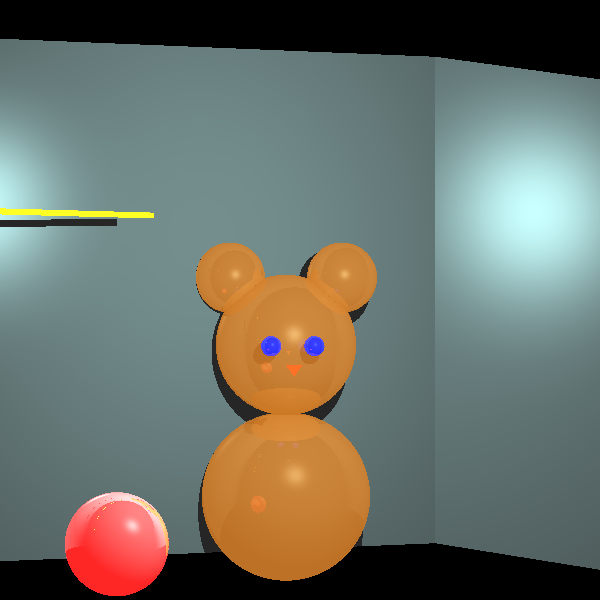
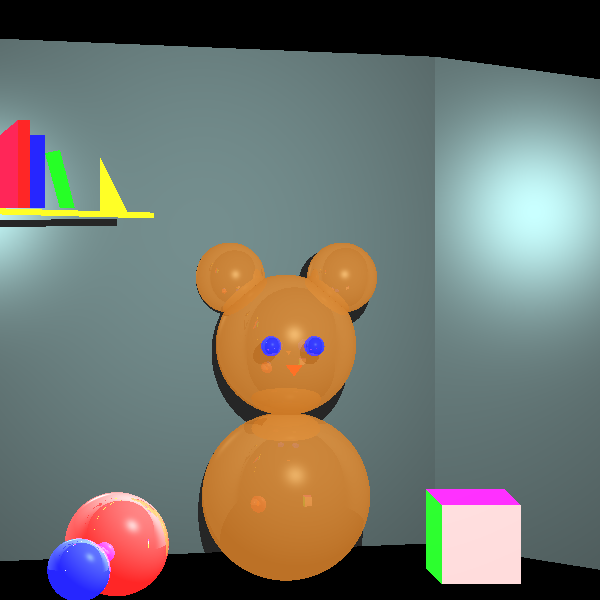
debut_8

diff --git a/unitTest/images/ourImages.java b/unitTest/images/ourImages.java
@@ -140,13 +140,95 @@ public class ourImages {
                         .setMaterial(new Material().setKd(0.5).setKs(0.8).setShininess(60)),
 
 
-//                new Cylinder(new Ray(new Point(0, -90, -17), new Vector(1, 1, -0.3)), 5d, 1)
-//                        .setEmission(new Color(black))
-//                        .setMaterial(new Material().setKd(0.5).setKs(0.8).setShininess(30).setKr(1)),
-//                new Cylinder(new Ray(new Point(0, -90, -17), new Vector(1, -1, -0.3)), 5d, 1)
-//                        .setEmission(new Color(black))
-//                        .setMaterial(new Material().setKd(0.5).setKs(0.8).setShininess(30).setKr(1)),
-                //head
+                //books on the shelf
+                new Triangle(
+                        new Point(-90, 60, 0),
+                        new Point(-90, 30.5, 0),
+                        new Point(-94, 30.5, 0)
+                ).setEmission(new Color(red)),
+                new Triangle(
+                        new Point(-90, 60, 0),
+                        new Point(-94, 60, 0),
+                        new Point(-94, 30.5, 0)
+                ).setEmission(new Color(red)),
+                new Triangle(
+                        new Point(-94, 60, 0),
+                        new Point(-100, 55, 0),
+                        new Point(-94, 30.5, 0)
+                ).setEmission(new Color(255, 0, 50)),
+                new Triangle(
+                        new Point(-94, 30.5, 0),
+                        new Point(-100, 55, 0),
+                        new Point(-100, 30.5, 0)
+                ).setEmission(new Color(222, 0, 50)),
+                new Triangle(
+                        new Point(-85, 55, 0),
+                        new Point(-85, 30.5, 0),
+                        new Point(-90, 30.5, 0)
+                ).setEmission(new Color(blue)),
+                new Triangle(
+                        new Point(-85, 55, 0),
+                        new Point(-90, 55, 0),
+                        new Point(-90, 30.5, 0)
+                ).setEmission(new Color(blue)),
+                new Triangle(
+                        new Point(-85, 49, 0),
+                        new Point(-80, 30.5, 0),
+                        new Point(-80, 50, 0)
+                ).setEmission(new Color(green)),
+                new Triangle(
+                        new Point(-80, 50, 0),
+                        new Point(-75, 30.5, 0),
+                        new Point(-80, 30.5, 0)
+                ).setEmission(new Color(green)),
+
+
+                //box on the floor
+                new Triangle(
+                        new Point(45, -90, 50),
+                        new Point(70, -90, 50),
+                        new Point(70, -65, 50)
+                ).setEmission(new Color(pink))
+                        .setMaterial(new Material().setKd(0.1).setKs(0.2).setShininess(30).setKr(0.3)),
+
+                new Triangle(
+                        new Point(45, -90, 50),
+                        new Point(45, -65, 50),
+                        new Point(70, -65, 50)
+                ).setEmission(new Color(pink))
+                        .setMaterial(new Material().setKd(0.1).setKs(0.2).setShininess(30).setKr(0.3)),
+
+                new Triangle(
+                        new Point(45, -90, 50),
+                        new Point(45, -65, 50),
+                        new Point(40, -60, 50)
+                ).setEmission(new Color(green))
+                        .setMaterial(new Material().setKd(0.1).setKs(0.2).setShininess(30).setKr(0.3)),
+
+                new Triangle(
+                        new Point(45, -90, 50),
+                        new Point(40, -85, 50),
+                        new Point(40, -60, 50)
+                ).setEmission(new Color(green))
+                        .setMaterial(new Material().setKd(0.1).setKs(0.2).setShininess(30).setKr(0.3)),
+
+                new Triangle(
+                        new Point(40, -60, 50),
+                        new Point(45, -65, 50),
+                        new Point(70, -65, 50)
+                ).setEmission(new Color(magenta))
+                        .setMaterial(new Material().setKd(0.1).setKs(0.2).setShininess(30).setKr(0.3)),
+
+                new Triangle(
+                        new Point(70, -65, 50),
+                        new Point(65, -60, 50),
+                        new Point(40, -60, 50)
+                ).setEmission(new Color(magenta))
+                        .setMaterial(new Material().setKd(0.1).setKs(0.2).setShininess(30).setKr(0.3))
+                ,
+
+
+                // head
                 new Sphere(new Point(-5, -16, -70), 25d).setEmission(new Color(150, 75, 0))
                         .setMaterial(new Material().setKd(0.1).setKs(0.2).setShininess(30).setKr(0.1)),
 
@@ -180,30 +262,19 @@ public class ourImages {
                         new Point(-40, 30, -40),
                         new Point(-40, 28, -40),
                         new Point(-50, 28, -30)).setEmission(new Color(yellow)),
+                new Triangle(
+                        new Point(-90, 30, -50),
+                        new Point(-60, 30, -50),
+                        new Point(-70, 50, -50)).setEmission(new Color(yellow)),
 
-
-//        //les sphere dans la boite
-//                new Sphere(new Point(0, 0, 20), 30d) //
-//                        .setEmission(new Color(red)) //
-//                        .setMaterial(new Material().setKd(0.5).setKs(0.5).setKr(1).setShininess(30)), //
-//                new Sphere(new Point(48, 30, -19), 25d) //
-//                        .setEmission(new Color(blue)) //
-//                        .setMaterial(new Material().setKd(0.5).setKs(0.5).setKr(1).setShininess(60)),//
-//                new Sphere(new Point(0, 80, -50), 16d) //
-//                        .setEmission(new Color(255, 17, 31))
-//                        .setMaterial(new Material().setKd(0.5).setKs(0.5).setKr(1).setShininess(30)),//
-//                new Sphere(new Point(-50, 38, 10), 14d) //
-//                        .setEmission(new Color(green)) //
-//                        .setMaterial(new Material().setKd(0.5).setKs(0.5).setKr(1).setShininess(30)),
-//                new Sphere(new Point(-47, 80, 17), 17d) //
-//                        .setEmission(new Color(yellow)) //
-//                        .setMaterial(new Material().setKd(0.5).setKs(0.5).setKr(1).setShininess(30)),
-//                new Sphere(new Point(47, -80, -20), 17d) //
-//                        .setEmission(new Color(magenta)) //
-//                        .setMaterial(new Material().setKd(0.5).setKs(0.5).setKr(1).setShininess(30)),
+                //balls
                 new Sphere(new Point(-60, -80, 17), 17d) //
                         .setEmission(new Color(red)) //
+                        .setMaterial(new Material().setKd(0.5).setKs(0.5).setKr(1).setShininess(30)),
+                new Sphere(new Point(-70, -85.5, 50), 10d) //
+                        .setEmission(new Color(blue)) //
                         .setMaterial(new Material().setKd(0.5).setKs(0.5).setKr(1).setShininess(30))
+
 
         );
         scene.lights.add( //
